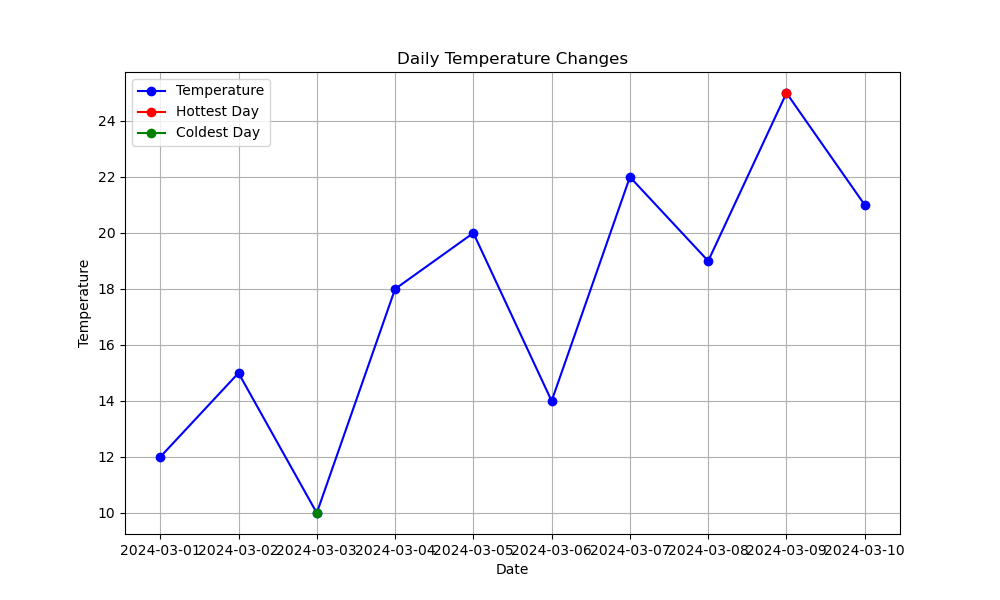
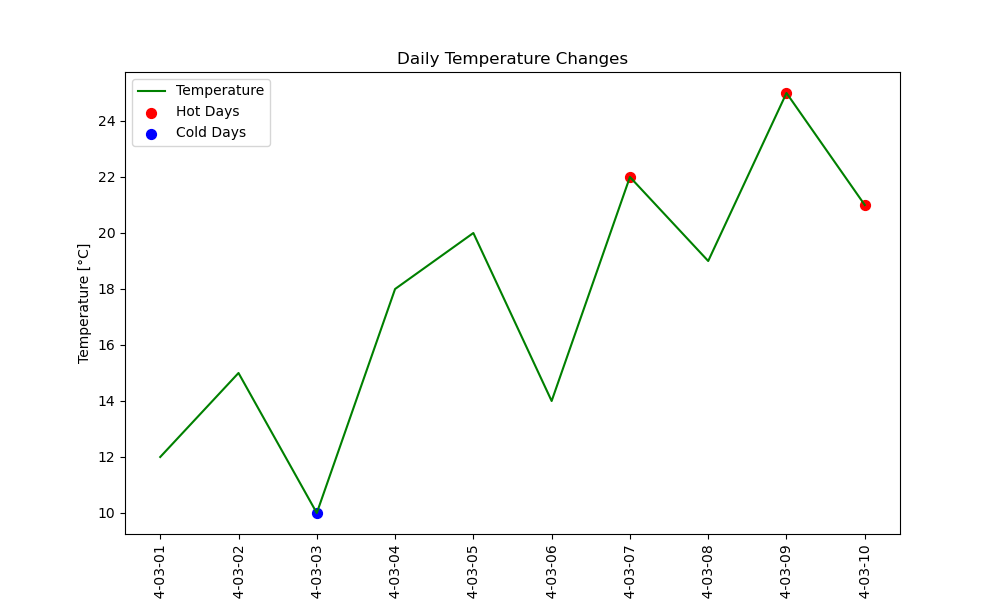
REFACTORING - Highlight cold and hot days. Fix yticks visualization

diff --git a/AI_generated_tasks/weather_data_visualization.py b/AI_generated_tasks/weather_data_visualization.py
@@ -37,6 +37,11 @@ Bonus Challenge:
 import pandas as pd
 import matplotlib.pyplot as plt
 
+# Use a non-interactive backend to avoid Qt platform plugin errors
+import matplotlib
+
+# matplotlib.use("Agg")
+
 
 def main():
     # Read temperature data from CSV file
@@ -48,28 +53,35 @@ def main():
 
     # Plot daily temperature changes
     plt.figure(figsize=(10, 6))
-    plt.plot(dates, temperatures, marker="o", color="green", label="Temperature")
+    plt.plot(dates, temperatures, color="green", label="Temperature")
+    plt.xticks(rotation=90)
     plt.title("Daily Temperature Changes")
     plt.xlabel("Date")
     plt.ylabel("Temperature [°C]")
-    plt.grid(True)
+    plt.grid(False)
 
-    # Highlight the hottest and coldest days
-    hottest_day = df[df["Temperature"] == df["Temperature"].max()]
-    coldest_day = df[df["Temperature"] == df["Temperature"].min()]
-    plt.plot(
-        hottest_day["Date"],
-        hottest_day["Temperature"],
+    # Highlght cold days (< 11°C) in blue
+    cold_days = df[df["Temperature"] < 11]
+
+    # Highlight hot days (> 20°C) in red
+    hot_days = df[df["Temperature"] > 20]
+
+    # Scatter plot for hot and cold days
+    plt.scatter(
+        x=hot_days["Date"],
+        y=hot_days["Temperature"],
         marker="o",
+        s=50,
         color="red",
-        label="Hottest Day",
+        label="Hot Days",
     )
-    plt.plot(
-        coldest_day["Date"],
-        coldest_day["Temperature"],
+    plt.scatter(
+        x=cold_days["Date"],
+        y=cold_days["Temperature"],
         marker="o",
-        color="green",
-        label="Coldest Day",
+        s=50,
+        color="blue",
+        label="Cold Days",
     )
 
     # Add legend
